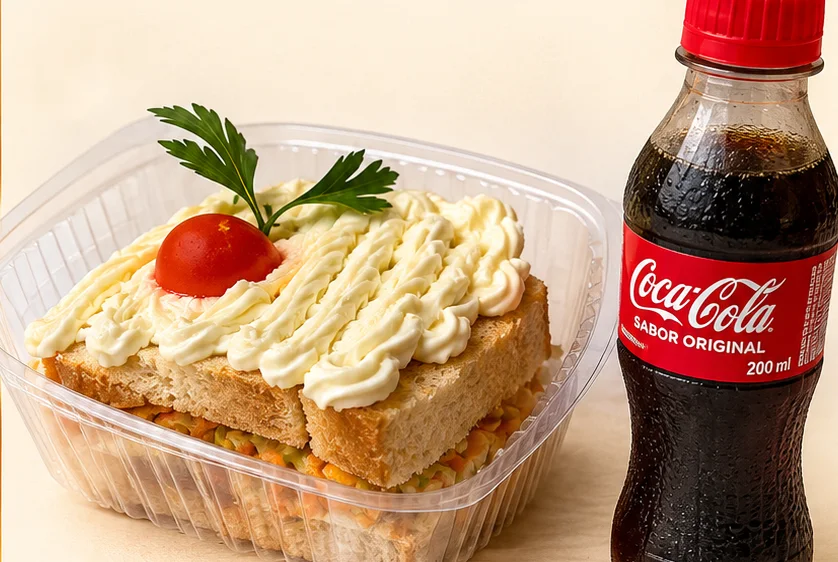
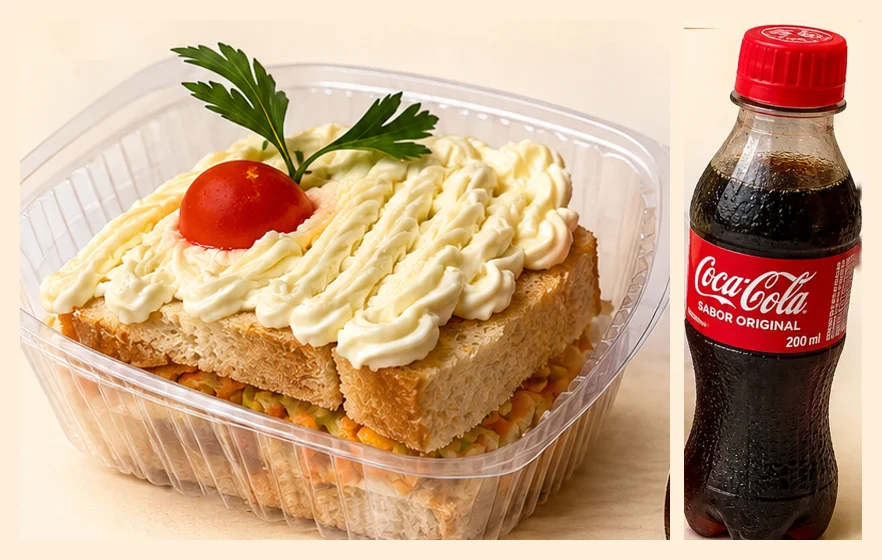
Combos: sanduíche e refrigerante em fotos separadas, menores e lado a lado dentro do enquadramento; fotos refeitas sem cortar a tampa da garrafa
Claude-Session: https://claude.ai/code/session_01L7RU4Qf6ipUkkZnfFHStMk

diff --git a/index.html b/index.html
@@ -88,6 +88,7 @@ footer{background:var(--g2);color:#F3E9D2;text-align:center;padding:30px 20px;fo
 .cb .bd{padding:22px 20px 20px;display:flex;flex-direction:column;gap:8px}.cb h3{font:700 27px/1.1 "Cormorant Garamond",serif;color:#F3DFA8;padding-right:96px;min-height:2.2em;margin:0}
 .cb p{margin:0;font-size:14px;color:#DDD6B8}.cb .btn{margin-top:6px}
 .cbh{font-size:13px;color:var(--mut);margin:-6px 0 0;text-align:center}
+.cb .ph.pair{aspect-ratio:auto;display:flex;gap:10px;justify-content:center;align-items:stretch;padding:20px 14px 26px;background:linear-gradient(#FBEFD9,#F3E1BE)}.cb .ph.pair img{width:auto;max-width:none;height:min(190px,calc((88vw - 62px)/1.62));flex:none;border-radius:16px;border:3px solid #FFF6E6;box-shadow:0 5px 14px rgba(0,0,0,.14);background:#F3E4C8}
 @media (prefers-reduced-motion:reduce){.cb,.cb .ph::after,.tabs2 i{animation:none;transition:none}}
 </style></head><body>
 <header><div class="wrap"><img src="images/logo-small.webp" alt="DonaLia Bistrô"><b>DonaLia Bistrô</b><a href="#cardapio">Cardápio</a><a href="#pedido">Pedido</a></div></header>
@@ -133,10 +134,10 @@ function fee(){if($('#ent').value=='Retirada')return 0;const n=NB.find(x=>x.name
 const PAL=['#FBE7A8','#F7C9CF','#E9D3B5','#D9C9E8','#CFE3C4','#F6D7B8'];let TL=[];
 const key=(k,f)=>k+'|'+f,qty=(k,f)=>{const c=cart.find(x=>x.k==k&&x.fl==f);return c?c.q:0};
 function build(){TL=[];Object.entries(MENU).forEach(([k,m])=>{if(m.fl.length)m.fl.forEach(f=>TL.push({k,f,t:f,s:m.n,d:'',p:(m.fpr&&m.fpr[f]!=null)?m.fpr[f]:m.p,img:(m.fi&&m.fi[f])||m.img||'',n:m.n}));else TL.push({k,f:'',t:m.n,s:'',d:m.d,p:m.p,img:m.img||'',n:m.n})});
-const isCombo=(k,m)=>/coca/.test(k)||/ \+ /.test(m.n),CB=Object.entries(MENU).filter(([k,m])=>isCombo(k,m));
+const PAIRS=['sanduiche-coca','sanduiche-integral-coca-zero'],isCombo=(k,m)=>/coca/.test(k)||/ \+ /.test(m.n),CB=Object.entries(MENU).filter(([k,m])=>isCombo(k,m));
 $('#cards').innerHTML=Object.entries(MENU).filter(([k,m])=>!isCombo(k,m)).map(([k,m])=>`<div class="card"><h3>${E(m.n)}</h3><p>${E(m.d)}</p>${m.fl.length?`<div class="fl">${m.fl.map(f=>`<span>${E(f)}${m.fpr&&m.fpr[f]!=null?` · ${R(m.fpr[f])}`:''}</span>`).join('')}</div>`:''}<div class="price">${R(m.p)}</div><button class="btn s" data-k="${E(k)}" type="button">Pedir este</button></div>`).join('');
 $('#tabs2').classList.toggle('hide',!CB.length);if(!CB.length)showTab('menu');
-$('#combos').innerHTML=CB.map(([k,m])=>`<div class="cb"><span class="rb">COMBO</span><div class="pw"><div class="ph"><img src="${E(m.img||'images/produtos/'+k+'.webp')}" alt="${E(m.n)}" loading="lazy"></div><div class="st"><small>R$</small><b>${String(m.p.toFixed(2)).replace('.',',').replace(',00','')}</b></div></div><div class="bd"><h3>${E(m.n)}</h3><p>${E(m.d)}</p><button class="btn g" data-k="${E(k)}" type="button">Quero este combo</button></div></div>`).join('')+(CB.length>1?'':'');
+$('#combos').innerHTML=CB.map(([k,m])=>`<div class="cb"><span class="rb">COMBO</span><div class="pw"><div class="ph ${PAIRS.includes(k)?'pair':''}">${PAIRS.includes(k)?`<img src="images/produtos/${E(k)}-prato.webp" alt="${E(m.n)}" loading="lazy"><img src="images/produtos/${E(k)}-bebida.webp" alt="" loading="lazy">`:`<img src="${E(m.img||'images/produtos/'+k+'.webp')}" alt="${E(m.n)}" loading="lazy">`}</div><div class="st"><small>R$</small><b>${String(m.p.toFixed(2)).replace('.',',').replace(',00','')}</b></div></div><div class="bd"><h3>${E(m.n)}</h3><p>${E(m.d)}</p><button class="btn g" data-k="${E(k)}" type="button">Quero este combo</button></div></div>`).join('')+(CB.length>1?'':'');
 fillB();tiles()}
 function showTab(t){const c=t=='combos'&&!$('#tabs2').classList.contains('hide');$('#cards').classList.toggle('hide',c);$('#combos').classList.toggle('hide',!c);document.querySelectorAll('#tabs2 button').forEach(b=>b.classList.toggle('on',b.dataset.tab==(c?'combos':'menu')))}
 $('#tabs2').onclick=e=>{const b=e.target.closest('button');if(b)showTab(b.dataset.tab)};
